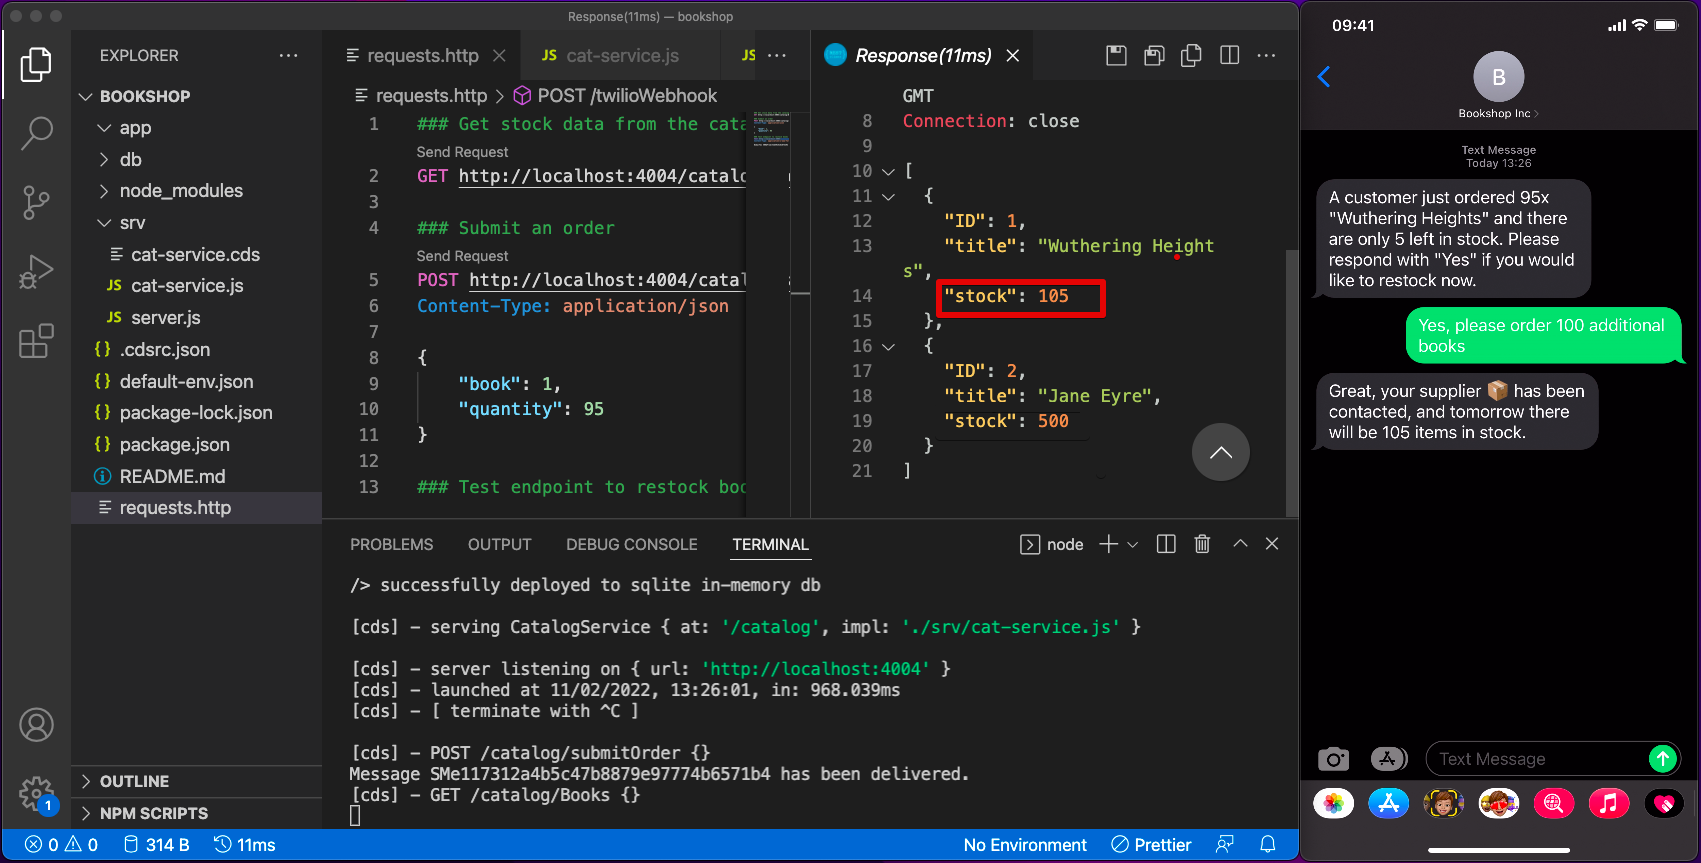
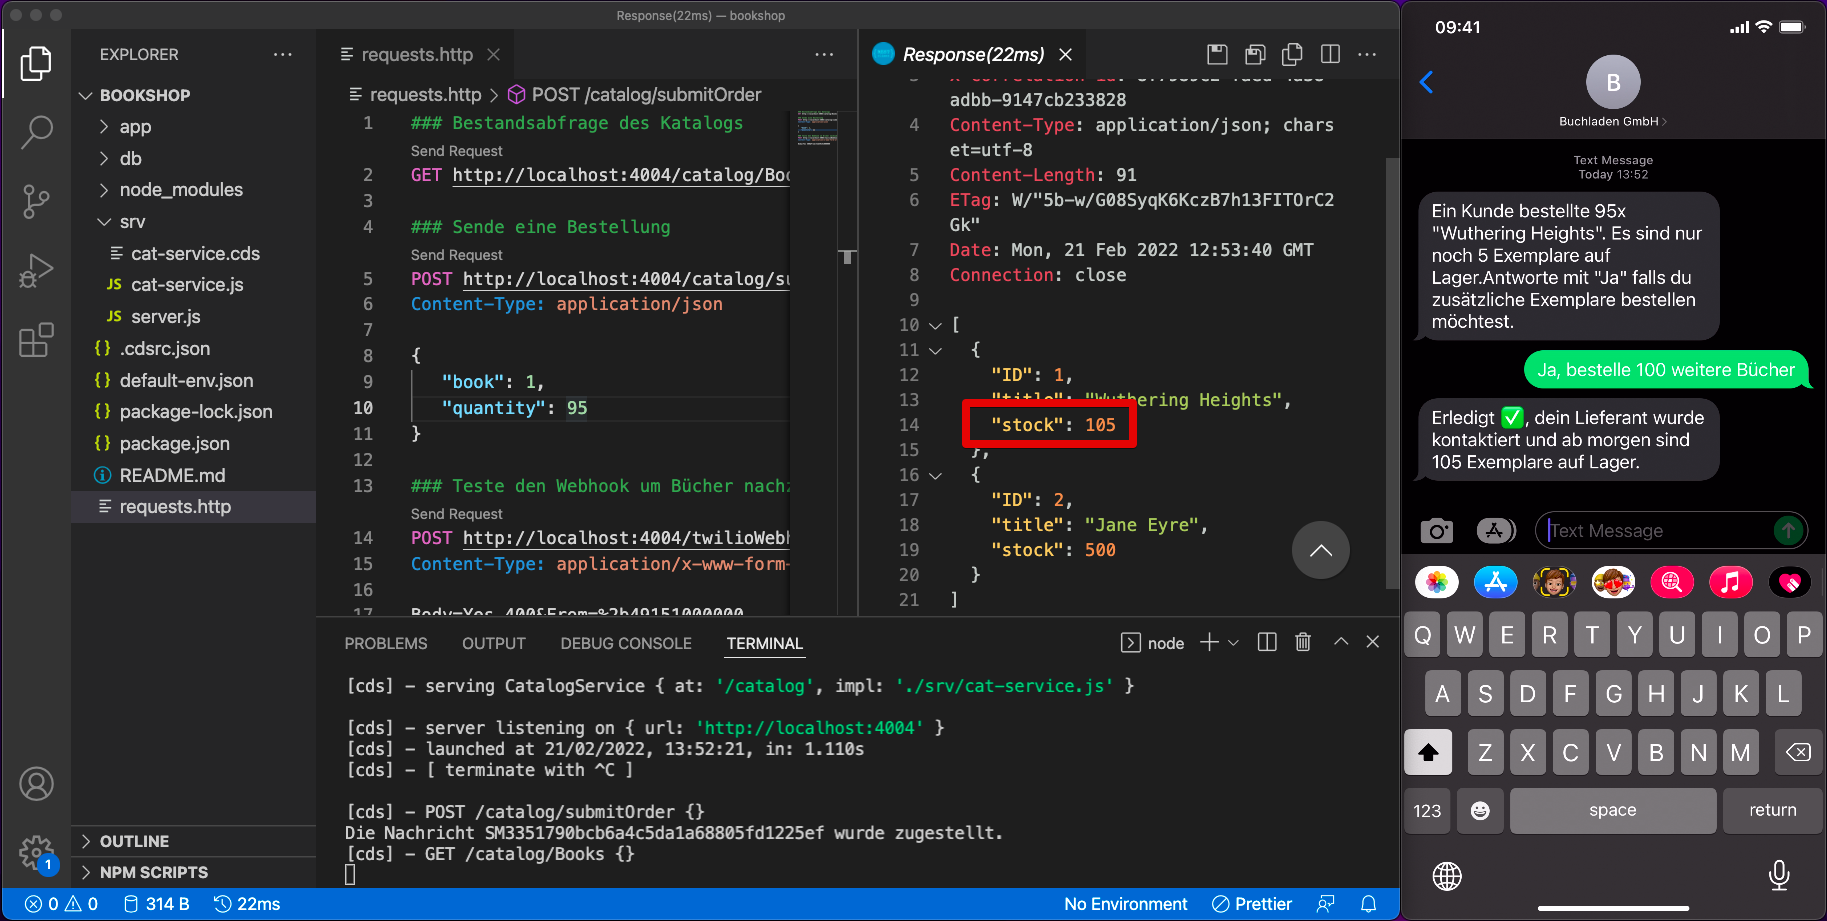
Update images

diff --git a/README.md b/README.md
@@ -55,7 +55,8 @@ Optional:
 1. Go to the [Twilio Console](https://console.twilio.com/?frameUrl=/console) and navigate to your phone number. Add the HTTPS URL that the previous step printed with the `/twilioWebhook` suffix to the section “A message comes in”.
     ![webhook](./docs/webhook.png)
 1. Trigger a request to order 95 books which results in a warning message to your phone number
-    ![low-stock](./docs/low-stock.png)
+    ![low-stock-ide](./docs/low-stock1.png)
+    ![low-stock-phone](./docs/low-stock2.png)
 1. Let's give it a shot. Respond with "Yes, please order 100 additional books" to the message you received a few minutes ago. Now query the current stock info via the first HTTP request once more.
     ![restocked](./docs/restocked.png)
 
